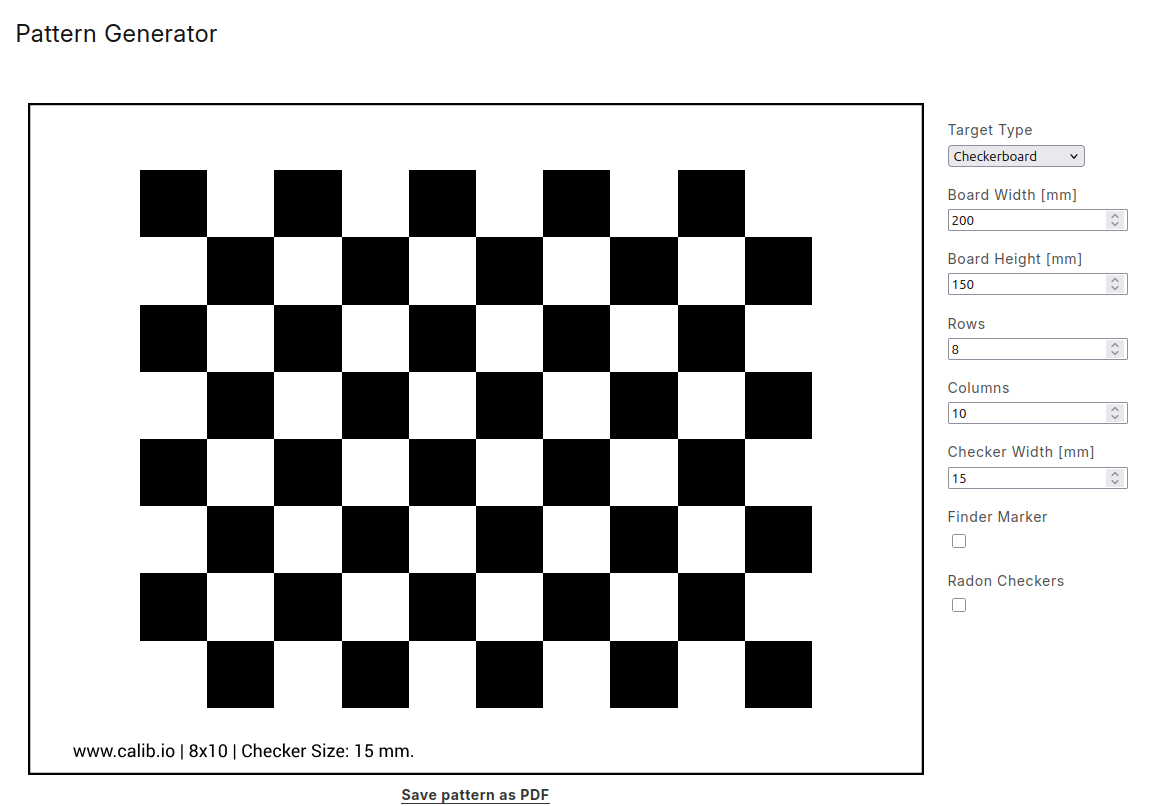
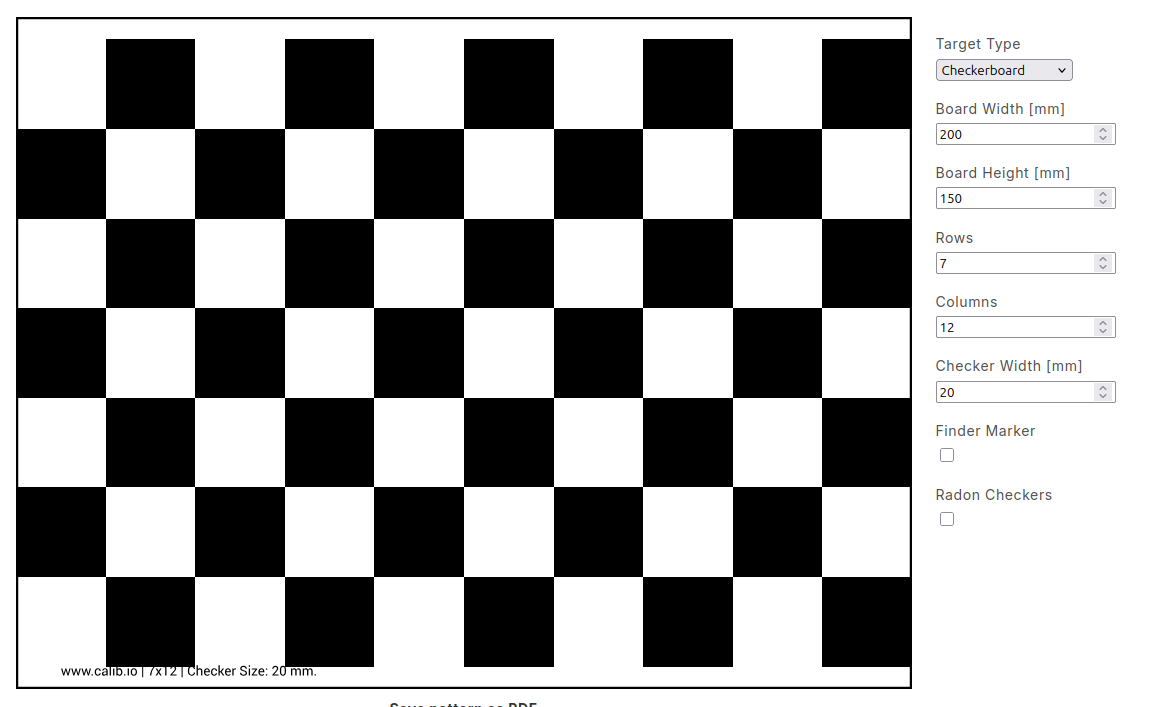
add ros2 cam calibration and Rajant node settings

diff --git a/ros2_cam_cali.md b/ros2_cam_cali.md
@@ -1,15 +1,18 @@
-# AprilTag
+# Camera calibration
 ## 1 Kit components
 Author: zhongmou.li@manchester.ac.uk
 
 **Kit**
-- ros-<ros2-distro>-camera-calibration (apt pkg)
+- ros2 pkgs
+    - ros-humble-camera-calibration-parsers
+    - ros-humble-camera-info-manager
+    - ros-humble-launch-testing-ament-cmake
+    - https://github.com/ros-perception/image_pipeline
 - [Pattern Generator](https://calib.io/pages/camera-calibration-pattern-generator) 
 - 
 **Host machine**
 - Ubuntu 22.04
 - ROS2 Humble
-  
 
 **Reference**
 - [Nav2, Camera Calibration](https://docs.nav2.org/tutorials/docs/camera_calibration.html)
@@ -17,16 +20,104 @@ Author: zhongmou.li@manchester.ac.uk
   
 ## 2 Install ROS2 camera calibration pkg
 ```bash
-
+    sudo apt install ros-humble-camera-calibration-parsers
+    sudo apt install ros-humble-camera-info-manager
+    sudo apt install ros-humble-launch-testing-ament-cmake
+```
+and build a pkg from source 
+```bash
+    cd ros_ws/src #replace it with yours
+    git clone -b humble https://github.com/ros-perception/image_pipeline
+    cd ros_ws
+    colcon build
 ```
 
 ## 3. Get chestboard
 1.  use [https://calib.io/pages/camera-calibration-pattern-generator](https://calib.io/pages/camera-calibration-pattern-generator) to generate a checkerboard.
 
-
-
-  <img title="VLP-16 Config" 
+  <img title="checkerboad_generator" 
     src="./img/cam_cali/checkerboard_generator.png">
 
-Following the suggestions at [Offline Camera Calibration in ROS 2](https://medium.com/starschema-blog/offline-camera-calibration-in-ros-2-45e81df12555), for a A4/US letter page, I choose an 8x10 board with 15mm squares. 
+Following the suggestions at [Offline Camera Calibration in ROS 2](https://medium.com/starschema-blog/offline-camera-calibration-in-ros-2-45e81df12555), for a A4/US letter page, I choose an 7x12 board with 20mm squares. 
 
+Here is one we get in RAICo.
+ <img title="checkerboad_generator" 
+    src="./img/cam_cali/pad_raico.jpg">
+
+
+## 4. Calibration
+NOTE there: even we choose the size of board as 7x12, in calibration we use the interior corners as the size, therefore the size in calibration is 6x11. 
+```bash
+    ros2 run camera_calibration cameracalibrator --size 6x11 --square 0.02 --ros-args --remap image:=/camera1/image_raw --ros-args --remap camera:=/camera1
+```
+  <img title="checkerboad in calibration" 
+    src="./img/cam_cali/calibrate_checkerboard.png">
+
+Here is the command to calibrate Basler camera 
+```bash
+    ros2 run camera_calibration cameracalibrator --size 6x11 --square 0.02 --ros-args --remap image:=/my_camera/pylon_ros2_camera_node/image_raw --ros-args --remap camera:=/my_camera/pylon_ros2_camera_node
+```
+
+Then you should see
+```bash
+Waiting for service camera/set_camera_info ...
+OK
+Waiting for service left_camera/set_camera_info ...
+OK
+Waiting for service right_camera/set_camera_info ...
+OK
+[WARN] [1759334647.953247742] [cameracalibrator]: No publishers available for topic /left. Using system default QoS for subscriber.
+[WARN] [1759334647.955351406] [cameracalibrator]: No publishers available for topic /right. Using system default QoS for subscriber.
+
+(python3:5448): dbind-WARNING **: 16:04:07.959: Couldn't connect to accessibility bus: Failed to connect to socket /run/user/1000/at-spi/bus: No such file or directory
+Gtk-Message: 16:04:07.974: Failed to load module "canberra-gtk-module"
+Gtk-Message: 16:04:07.975: Failed to load module "canberra-gtk-module"
+*** Added sample 1, p_x = 0.531, p_y = 0.994, p_size = 0.277, skew = 0.181
+*** Added sample 2, p_x = 0.562, p_y = 0.937, p_size = 0.305, skew = 0.091
+*** Added sample 3, p_x = 0.660, p_y = 0.864, p_size = 0.341, skew = 0.109
+*** Added sample 4, p_x = 0.495, p_y = 0.913, p_size = 0.355, skew = 0.030
+*** Added sample 5, p_x = 0.381, p_y = 0.842, p_size = 0.348, skew = 0.038
+    
+```
+
+Move the checkerboard until the four lines become green, then lick the button `Calibrate`. The output of using Basler camera is 
+
+```
+**** Calibrating ****
+mono pinhole calibration...
+D = [-0.1855895035025632, 0.09250161146030608, -0.00019004380918710018, 0.0012011485216892029, 0.0]
+K = [1200.9194578682213, 0.0, 621.0797853701526, 0.0, 1200.1751315273539, 496.9581503072852, 0.0, 0.0, 1.0]
+R = [1.0, 0.0, 0.0, 0.0, 1.0, 0.0, 0.0, 0.0, 1.0]
+P = [1140.9989013671875, 0.0, 620.3406089456475, 0.0, 0.0, 1159.812255859375, 495.3710954588314, 0.0, 0.0, 0.0, 1.0, 0.0]
+None
+# oST version 5.0 parameters
+
+
+[image]
+
+width
+1280
+
+height
+1024
+
+[narrow_stereo]
+
+camera matrix
+1200.919458 0.000000 621.079785
+0.000000 1200.175132 496.958150
+0.000000 0.000000 1.000000
+
+distortion
+-0.185590 0.092502 -0.000190 0.001201 0.000000
+
+rectification
+1.000000 0.000000 0.000000
+0.000000 1.000000 0.000000
+0.000000 0.000000 1.000000
+
+projection
+1140.998901 0.000000 620.340609 0.000000
+0.000000 1159.812256 495.371095 0.000000
+0.000000 0.000000 1.000000 0.000000
+```

diff --git a/rajant.md b/rajant.md
@@ -1,0 +1,78 @@
+# Rajant mesh network
+## 1 Kit components
+Author: zhongmou.li@manchester.ac.uk
+
+**Kit**
+- Rajant nodes (DX and ES)
+- Ethernet cable **(cat 6)**
+- Injector AC/DC
+
+
+**Host machine**
+- Ubuntu 22.04
+- ROS2 Humble
+
+## 2. Setup Rajant
+### 2.1 Connect nodes with injector
+A Rajant node must be connected to a computer through an injector: a DC one or a AC one.
+
+One example using a AC injector is given here. Connect the AC injector with power, and the Rajant node.
+
+<img width = 600pt  src="./img/rajant/node_connection_injector.jpg">
+
+Then, connect the injector to the computer with another Ethernet Cable. **It is not fully tested, but Ethernect cables cat 5 cause instable connection, while cat 6 ones have no problems like that.**
+
+<img width = 600pt  src="./img/rajant/node_connection_computer.jpg">
+
+### 2.2 Rajant configurator
+We need to run Rajant configurator to set IP address of nodes. Even it is a Windows app, it can run quite well using `wine` on Linux.
+
+It can start the programme by running
+```bash
+    wine ./bcc11.exe 
+```
+which shows us the interface to log in
+<img width = 600pt  src="./img/rajant/rajant_login.png">
+
+The log in details are given by Craig West from UKAEA
+- Type: Live mesh 
+- User: Crypto officer 
+- PWD:  breadcrumb-co
+
+The nodes found are showing 
+<img width = 600pt  src="./img/rajant/rajant_nodes_list.png">
+
+Each node is identified with a serial number, which can be found at the back of the nodes.
+- the serial number of node in white is `ES1-2450R-89532`
+- the serial number of node in blue is `DX2-50-90424`
+
+ 
+The color indicates the statuses of the nodes: Green = talking to each other, Blue = power but not talking.
+
+If no node is shown, we need to scan them
+<img width = 600pt  src="./img/rajant/scan_nodes.png">
+
+### 2.2 IP settings for computers and Rajant nodesf
+
+Once a node can be listed, we are able to configure the IP address to enable wireless and mesh communication.
+
+<img width = 600pt  src="./img/rajant/config_nodes.png">
+
+In the section Network, we first disable the DHCP server in order to use static ip addresses for all devices.
+
+<img width = 600pt  src="./img/rajant/node_ip_setting_DHCP.png">
+
+Then, set the IP address of this Rajent node. 
+<img width = 600pt  src="./img/rajant/ip_address_setting.png">
+
+All the nodes used and the devices in the same network must share the same subnet. For instance, their IP address must have the same format like 192.68.131.XXX with the subnet being 255.255.255.0.
+
+## 2. ROS2 communication with Rajant nodes and computers
+Static IP addresses are hightly recommended. Take the devices in CORAL for example.
+
+The IP addresses are set to be in the same subnet as following:
+- a blue node (DX) is `192.168.131.111`
+- an drone onbard computer is `192.168.131.101`
+- a white node (ES) is `192.168.131.211`
+- a base station is `192.168.131.11`
+

diff --git a/Readme.md b/Readme.md
@@ -9,13 +9,16 @@
    - [ros2 calibration](ros2_cam_cali.md)
 1. visual camera
     - [Basker acA1300-60gmNIR](aca1300.md)
-
-
+    - 
 ### IMU
 1. 9-axis IMU
     - [3DM-GX5-25](imu_3dm_gx5_25.md)
     - [3DM-Gv7-AHRS](imu_3dm_gv7_AHRS.md)
 
+
+### Network
+1. [Rajant nodes](rajant.md)
+   
 ## 2. Algorithms
 ### SLAM
 1. [LIO-SAM](https://github.com/ZhongmouLi/ZLIOSAM)
